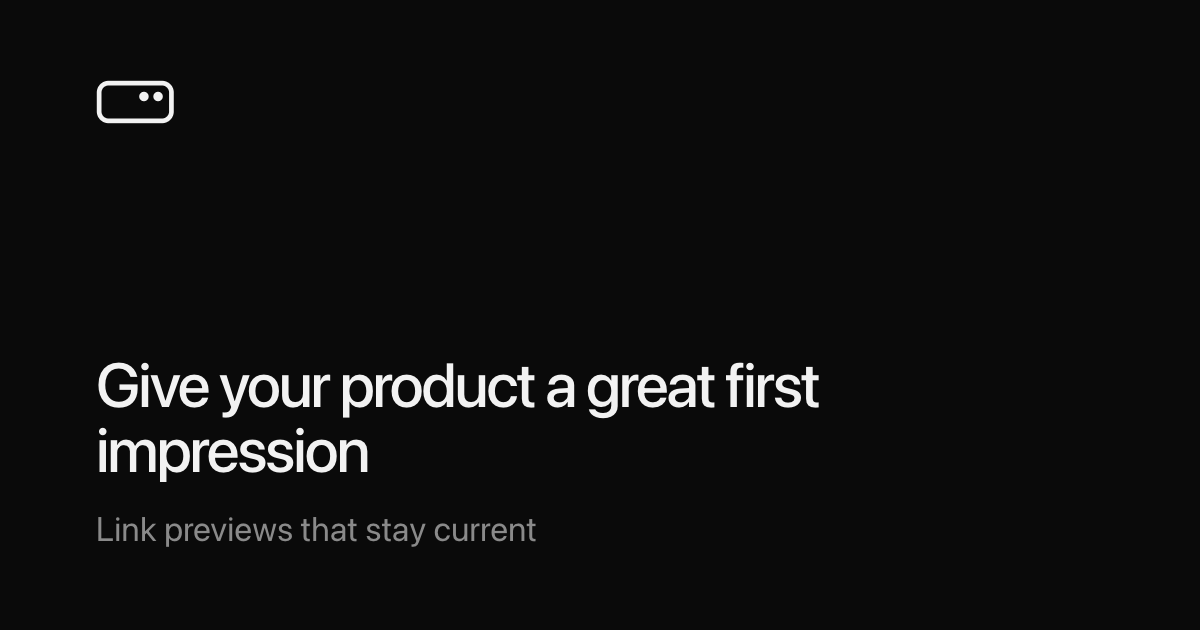
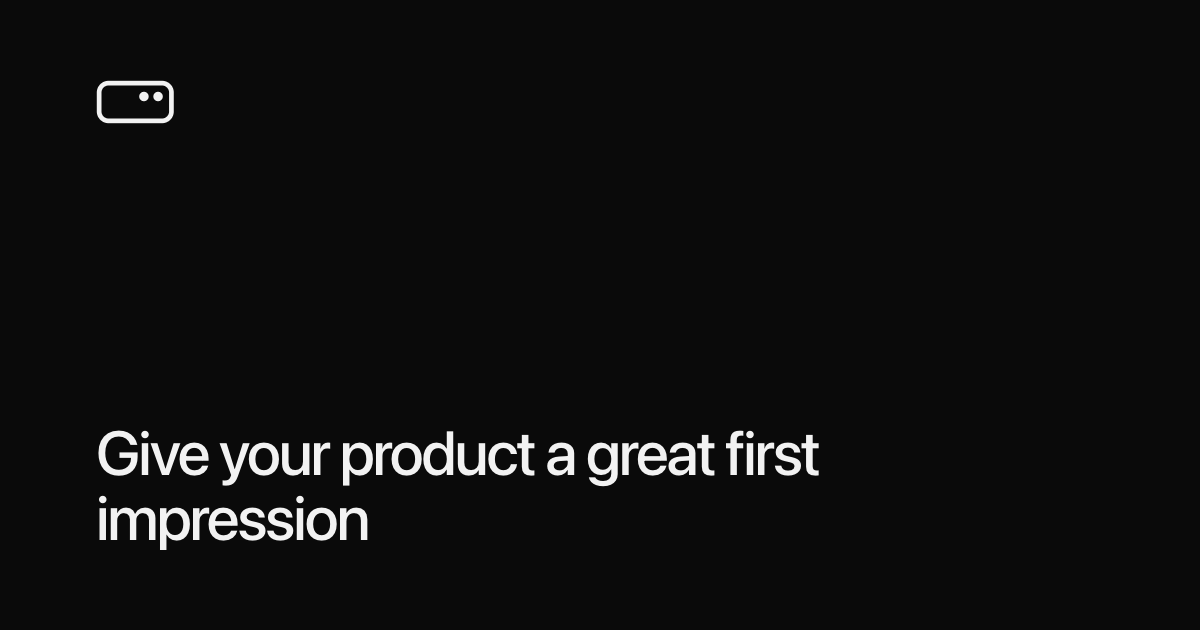
Page: full-width sections split by lines, Why as cards with live pictures, quiet load-in motion, one type scale, the thin footer word back; social image without its subtitle

Changed region(s): [[0.0617, 0.573, 0.6783, 0.8746]]

diff --git a/site/index.html b/site/index.html
@@ -23,7 +23,7 @@
 <link rel="preconnect" href="https://fonts.googleapis.com">
 <link rel="preconnect" href="https://fonts.gstatic.com" crossorigin>
 <link href="https://fonts.googleapis.com/css2?family=Inter:wght@400;500;600&family=JetBrains+Mono:wght@400;500&display=swap" rel="stylesheet">
-<script>try { const t = localStorage.getItem('theme'); if (t === 'light' || t === 'dark') document.documentElement.dataset.theme = t; } catch {}</script>
+<script>document.documentElement.classList.add('js'); try { const t = localStorage.getItem('theme'); if (t === 'light' || t === 'dark') document.documentElement.dataset.theme = t; } catch {}</script>
 <style>
   :root {
     --bg: #fafafa; --paper: #ffffff; --ink: #0a0a0a; --ink2: #444; --mute: #7a7a7a; --line: #e4e4e4; --soft: #c8c8c8;
@@ -44,13 +44,19 @@
   body { margin: 0; background: var(--bg); color: var(--ink); font: 400 17px/1.55 var(--sans); -webkit-font-smoothing: antialiased; }
   a { color: inherit; }
   button { font: inherit; color: inherit; }
+  h1, h2, h3 { text-wrap: balance; }
+  p { text-wrap: pretty; }
   .label { font: 500 12px/1 var(--mono); letter-spacing: .14em; text-transform: uppercase; color: var(--mute); }
-  .frame { max-width: 1200px; margin: 0 auto; border-left: 1px solid var(--line); border-right: 1px solid var(--line); background: var(--paper); }
+  .frame { background: var(--paper); }
+  .wrap { max-width: 1200px; width: 100%; margin-inline: auto; }
+  .alt { background: var(--bg); }
+  .split { border-top: 1px solid var(--line); flex: 1; display: flex; }
+  .split > * { flex: 1; }
   .screen { min-height: calc(100svh - var(--head)); border-bottom: 1px solid var(--line); display: flex; flex-direction: column; }
 
   /* top */
   header { position: sticky; top: 0; z-index: 5; height: var(--head); background: color-mix(in srgb, var(--bg) 86%, transparent); backdrop-filter: blur(10px); border-bottom: 1px solid var(--line); }
-  .bar { max-width: 1200px; height: 100%; margin: 0 auto; padding: 0 24px; display: flex; align-items: center; gap: 28px; }
+  .bar { max-width: 1248px; height: 100%; margin: 0 auto; padding: 0 24px; display: flex; align-items: center; gap: 28px; }
   .logo { display: flex; align-items: center; gap: 10px; text-decoration: none; font: 600 22px/1 var(--sans); letter-spacing: -.04em; }
   .logo svg { height: 18px; width: auto; }
   .logo span { color: var(--mute); }
@@ -91,7 +97,8 @@
   h1 { margin: 28px 0 0; max-width: 820px; font: 500 clamp(40px, 6.6vw, 76px)/1.04 var(--sans); letter-spacing: -.045em; }
   .lede { margin: 22px 0 0; max-width: 520px; font-size: 19px; color: var(--ink2); }
   .ctas { margin-top: 36px; display: flex; gap: 12px; justify-content: center; flex-wrap: wrap; max-width: 100%; }
-  .users { position: relative; display: flex; align-items: flex-end; justify-content: center; gap: 48px; flex-wrap: wrap; padding: 28px 24px; border-top: 1px solid var(--line); background: var(--paper); }
+  .users { position: relative; display: flex; align-items: flex-end; justify-content: center; gap: 48px; flex-wrap: wrap; padding: 28px 24px 34.5px; border-top: 1px solid var(--line); background: var(--paper); }
+  /* 6.5px more below: exploraVist's p hangs that far under the line the logos sit on */
   .logos { display: flex; align-items: flex-end; gap: 48px; }
   .users > .label { padding-bottom: 1px; }
   .logos a { display: block; }
@@ -99,19 +106,18 @@
   .logos svg.ev { height: 28px; margin-bottom: calc(-28px * 15 / 65); }
 
   /* examples */
-  .ex-head { padding: 56px 48px 40px; }
-  h2 { margin: 0; font: 500 clamp(30px, 4vw, 44px)/1.1 var(--sans); letter-spacing: -.035em; }
+  .ex-head { padding: 104px 48px 48px; }
+  h2 { margin: 0; font: 500 clamp(30px, 3.6vw, 42px)/1.1 var(--sans); letter-spacing: -.035em; }
   .ex-head { display: flex; align-items: flex-end; justify-content: space-between; gap: 32px; }
-  .ex-head h2 { font-size: clamp(30px, 3.6vw, 42px); }
   .seg { flex: none; }
   .seg { display: inline-flex; gap: 4px; padding: 4px; background: var(--code); border: 1px solid var(--line); border-radius: 999px; }
   .tab { position: relative; overflow: hidden; display: flex; align-items: center; gap: 8px; height: 40px; padding: 0 16px; border: 0; border-radius: 999px; background: transparent; color: var(--mute); cursor: pointer; font: 500 14px/1 var(--sans); }
   .tab:hover { color: var(--ink); }
   .tab svg { width: 16px; height: 16px; }
   .tab[aria-selected="true"] { background: var(--paper); color: var(--ink); box-shadow: 0 1px 2px rgba(0,0,0,.08), 0 0 0 1px var(--line); }
-  .stage { flex: 1; display: grid; grid-template-columns: 1.1fr 1fr; border-top: 1px solid var(--line); }
-  .stage > div { padding: 48px; min-width: 0; display: flex; flex-direction: column; justify-content: center; }
-  .shot { position: relative; background: var(--bg); border-right: 1px solid var(--line); overflow: hidden; }
+  .stage { display: grid; grid-template-columns: 1.1fr 1fr; }
+  .stage > div { padding: 56px 48px 104px; min-width: 0; display: flex; flex-direction: column; justify-content: center; }
+  .shot { position: relative; border-right: 1px solid var(--line); overflow: hidden; }
   .shot::before { content: ""; position: absolute; inset: 0; background-image: radial-gradient(var(--dot) 1px, transparent 1.2px); background-size: 12px 12px; opacity: .7; }
   .chat { position: relative; max-width: 460px; width: 100%; margin: 0 auto; background: var(--paper); border: 1px solid var(--line); border-radius: 28px; padding: 22px 20px 24px;
     box-shadow: 0 24px 60px -30px rgba(0,0,0,.25); }
@@ -151,74 +157,105 @@
   .addr b.flash { animation: flash .8s ease-out; }
   @keyframes flash { from { background: var(--ink); color: var(--bg); } }
   .say .label.kind { display: inline-block; padding: 8px 12px; border: 1px solid var(--line); }
-  .say h3 { margin: 0; font: 500 clamp(26px, 3vw, 36px)/1.12 var(--sans); letter-spacing: -.03em; }
+  .say h3 { margin: 0; font: 500 clamp(24px, 2.6vw, 32px)/1.15 var(--sans); letter-spacing: -.03em; max-width: 440px; }
   .say p { margin: 14px 0 0; color: var(--ink2); max-width: 440px; }
 
-  /* why */
-  .why-grid { flex: 1; display: grid; grid-template-columns: 1fr 1fr; border-top: 1px solid var(--line); }
-  .why-grid > div { padding: 40px 48px; display: flex; flex-direction: column; justify-content: center; }
-  .why-grid > div:nth-child(2n) { border-left: 1px solid var(--line); }
-  .why-grid > div:nth-child(n+3) { border-top: 1px solid var(--line); }
-  .why-grid svg { width: 22px; height: 22px; color: var(--ink); }
-  .why-grid h3 { margin: 18px 0 0; font: 500 24px/1.2 var(--sans); letter-spacing: -.025em; }
-  .why-grid p { margin: 8px 0 0; color: var(--ink2); max-width: 420px; }
+  /* why: four cards, each with a small picture of the point */
+  .why-grid { display: grid; grid-template-columns: repeat(2, 1fr); gap: 16px; padding: 0 48px 104px; }
+  .card { border: 1px solid var(--line); border-radius: 20px; background: var(--paper); overflow: hidden; display: flex; flex-direction: column; }
+  .viz { position: relative; height: 196px; background: var(--bg); border-bottom: 1px solid var(--line); display: grid; place-items: center; overflow: hidden; }
+  .viz::before { content: ""; position: absolute; inset: 0; background-image: radial-gradient(var(--dot) 1px, transparent 1.2px); background-size: 12px 12px; opacity: .6; }
+  .viz > * { position: relative; }
+  .card .txt { padding: 22px 24px 26px; }
+  .card h3 { margin: 0; font: 500 22px/1.2 var(--sans); letter-spacing: -.025em; }
+  .card p { margin: 6px 0 0; color: var(--ink2); font-size: 15.5px; line-height: 1.5; }
+  .mini { width: 210px; border-radius: 14px; overflow: hidden; border: 1px solid var(--line); background: var(--code); font-size: 11px; box-shadow: 0 12px 30px -18px rgba(0,0,0,.35); }
+  .mini .cover { font-size: 0; }
+  .mini .cap { padding: 7px 10px 8px; }
+  .mini .cap b { display: block; font-size: 11.5px; }
+  .mini .cap span { color: var(--mute); font-size: 10.5px; }
+  .vs { display: flex; gap: 14px; align-items: center; }
+  .plain { width: 150px; padding: 12px 14px; border-radius: 14px; border: 1px solid var(--line); background: var(--paper); font-size: 12px; color: var(--mute); }
+  .plain u { color: var(--ink2); }
+  .vs .arrow { color: var(--soft); font: 400 18px var(--mono); }
+  .browser { width: 250px; border: 1px solid var(--line); border-radius: 12px; background: var(--paper); overflow: hidden; box-shadow: 0 12px 30px -18px rgba(0,0,0,.35); }
+  .browser .top { display: flex; gap: 5px; padding: 8px 10px; border-bottom: 1px solid var(--line); }
+  .browser .top i { width: 7px; height: 7px; border-radius: 50%; background: var(--line); }
+  .browser .pane { padding: 12px; }
+  .browser .cover { border-radius: 8px; }
+  .scan { position: absolute; inset: 0; background: var(--card); transform-origin: right; }
+  .shown .scan { animation: scan 1.6s .3s cubic-bezier(.6,0,.2,1) forwards; }
+  @keyframes scan { to { transform: scaleX(0); } }
+  .stamp { position: absolute; right: 14px; bottom: 12px; font: 500 10.5px var(--mono); letter-spacing: .1em; text-transform: uppercase; color: var(--mute); }
+  .url { display: flex; align-items: center; gap: 10px; padding: 12px 16px; border-radius: 999px; border: 1px solid var(--line); background: var(--paper); font: 400 14px var(--mono); box-shadow: 0 12px 30px -18px rgba(0,0,0,.35); }
+  .url svg { width: 16px; height: 16px; color: var(--mute); }
+  .url .tok { color: var(--ink); }
+  .seen { margin-top: 14px; font: 500 10.5px var(--mono); letter-spacing: .1em; text-transform: uppercase; color: var(--mute); text-align: center; }
+  .brand-cycle .site { transition: opacity .4s ease; }
+
+  /* things that rise in once, when first seen */
+  /* hidden only once the script is there to show them again */
+  .js [data-rise] { opacity: 0; transform: translateY(14px); transition: opacity .8s ease, transform .8s cubic-bezier(.2,.7,.2,1); transition-delay: var(--d, 0s); }
+  .js [data-rise].shown { opacity: 1; transform: none; }
+  /* the opening rises on load, with no script */
+  .hero [data-rise] { opacity: 1; transform: none; animation: up .9s cubic-bezier(.2,.7,.2,1) both; animation-delay: var(--d, 0s); }
+  @keyframes up { from { opacity: 0; transform: translateY(14px); } }
 
   /* get started */
-  .ways { flex: 1; display: grid; grid-template-columns: 1fr 1fr; }
-  .ways > div { padding: 48px; min-width: 0; display: flex; flex-direction: column; }
+  .ways { display: grid; grid-template-columns: 1fr 1fr; }
+  .ways > div { padding: 56px 48px 104px; min-width: 0; display: flex; flex-direction: column; justify-content: center; }
   .ways > div + div { border-left: 1px solid var(--line); }
-  .ways h3 { margin: 0; font: 500 28px/1.15 var(--sans); letter-spacing: -.03em; }
-  .ways p { margin: 12px 0 0; color: var(--ink2); max-width: 440px; }
+  .ways h3 { margin: 0; font: 500 24px/1.2 var(--sans); letter-spacing: -.025em; }
+  .ways p { margin: 8px 0 0; color: var(--ink2); max-width: 440px; }
   .ways .cmd { margin-top: 28px; align-self: flex-start; font-size: 13px; }
   .code { position: relative; margin-top: 16px; background: var(--code); border: 1px solid var(--line); }
   .code pre { margin: 0; padding: 16px 56px 16px 18px; overflow-x: auto; font: 400 13px/1.7 var(--mono); }
   .code .c { color: var(--mute); }
   .code .cp { position: absolute; top: 8px; right: 8px; }
-  .more { margin-top: auto; padding-top: 28px; }
+  .more { margin-top: 28px; }
   .more a { text-decoration: none; border-bottom: 1px solid var(--soft); }
   .more a:hover { border-color: var(--ink); }
-  .ways-head, .why-head { padding: 56px 48px 40px; }
-  .ways-head { border-bottom: 1px solid var(--line); }
+  .ways-head, .why-head { padding: 104px 48px 48px; }
 
   /* footer: the word drawn in as it comes into view; the dots light up near the pointer */
-  footer { position: relative; max-width: 1200px; margin: 0 auto; height: 340px; overflow: hidden; --mx: -999px; --my: -999px; }
+  footer { position: relative; height: 340px; overflow: hidden; --mx: -999px; --my: -999px; }
   footer::before, footer::after { content: ""; position: absolute; inset: 0; pointer-events: none; background-size: 12px 12px; }
   footer::before { background-image: radial-gradient(var(--dot) 1px, transparent 1.2px);
     -webkit-mask-image: linear-gradient(to top, #000, transparent 75%); mask-image: linear-gradient(to top, #000, transparent 75%); }
   footer::after { background-image: radial-gradient(var(--ink) 1.1px, transparent 1.3px); opacity: .5;
     -webkit-mask-image: radial-gradient(160px circle at var(--mx) var(--my), #000, transparent); mask-image: radial-gradient(160px circle at var(--mx) var(--my), #000, transparent); }
-  .word { position: absolute; left: 24px; bottom: 64px; width: clamp(340px, 78vw, 940px); height: auto; overflow: visible; user-select: none; }
-  /* fill over a doubled stroke: the letters' overlapping shapes leave no seams inside */
-  .word text { font: 700 300px var(--sans); letter-spacing: -.065em; fill: var(--bg); stroke: var(--soft); stroke-width: 2.4; paint-order: stroke fill;
-    stroke-dasharray: 2600; stroke-dashoffset: 2600; transition: stroke-dashoffset 2.6s cubic-bezier(.3,.1,.2,1); }
-  footer.on .word text { stroke-dashoffset: 0; }
-  .foot { position: absolute; left: 24px; right: 24px; bottom: 28px; display: flex; gap: 28px; flex-wrap: wrap; z-index: 1; }
+  .word { position: absolute; left: max(24px, calc((100% - 1200px) / 2 + 24px)); bottom: 72px; font: 700 clamp(110px, 24vw, 300px)/.8 var(--sans); letter-spacing: -.065em;
+    color: transparent; -webkit-text-stroke: 1px var(--soft); user-select: none; opacity: 0; transform: translateY(24px); transition: opacity 1.2s ease, transform 1.2s cubic-bezier(.2,.7,.2,1); }
+  footer.on .word { opacity: 1; transform: none; }
+  .foot { position: absolute; left: max(24px, calc((100% - 1200px) / 2 + 24px)); right: max(24px, calc((100% - 1200px) / 2 + 24px)); bottom: 28px; display: flex; gap: 28px; flex-wrap: wrap; z-index: 1; }
   .foot a { text-decoration: none; }
   .foot a:hover { color: var(--ink); }
   .foot .r { margin-left: auto; }
 
-  @media (prefers-reduced-motion: reduce) { html { scroll-behavior: auto; } *, *::before, *::after { animation: none !important; transition: none !important; } .word text { stroke-dashoffset: 0; } }
+  @media (prefers-reduced-motion: reduce) { html { scroll-behavior: auto; } *, *::before, *::after { animation: none !important; transition: none !important; } .word, .js [data-rise] { opacity: 1; transform: none; } .scan { display: none; } }
   @media (max-width: 900px) {
     nav a.label { display: none; }
     .bar { padding: 0 16px; gap: 16px; }
     .hero .in { padding: 56px 16px; }
-    .ex-head, .ways-head, .why-head { padding: 40px 16px 28px; }
+    .ex-head, .ways-head, .why-head { padding: 72px 16px 32px; }
     .ex-head { flex-direction: column; align-items: flex-start; gap: 20px; }
     .seg { padding: 0; gap: 22px; background: none; border: 0; border-radius: 0; }
     .tab { height: auto; padding: 4px 0; border-radius: 0; font-size: 15px; }
     .tab svg { display: none; }
     .tab[aria-selected="true"] { background: none; box-shadow: none; text-decoration: underline; text-underline-offset: 6px; text-decoration-thickness: 1.5px; }
     .stage, .ways { grid-template-columns: 1fr; }
-    .stage > div, .ways > div { padding: 32px 16px; }
+    .stage > div, .ways > div { padding: 32px 16px 56px; }
     .shot { border-right: 0; border-bottom: 1px solid var(--line); }
     .ways > div + div { border-left: 0; border-top: 1px solid var(--line); }
     .cmd { font-size: 12.5px; }
     footer { height: 240px; }
-    .word { left: 16px; bottom: 60px; }
-    .why-grid { grid-template-columns: 1fr; }
-    .why-grid > div { padding: 32px 16px; }
-    .why-grid > div:nth-child(2n) { border-left: 0; }
-    .why-grid > div + div { border-top: 1px solid var(--line); }
+    .word { left: 16px; bottom: 64px; }
+    .why-grid { grid-template-columns: 1fr; padding: 0 16px 72px; }
+    .plain { width: 104px; padding: 10px; font-size: 11px; }
+    .vs { gap: 8px; }
+    .vs .mini { width: 156px; }
+    .browser { width: 210px; }
+    .stamp { right: 10px; bottom: 8px; }
     .foot { left: 16px; right: 16px; }
   }
 </style>
@@ -251,12 +288,12 @@
 </div></header>
 
 <main class="frame">
-  <section class="screen hero" id="top">
+  <section class="screen hero alt" id="top">
     <div class="in">
       <div class="pill label">Open source · MCP</div>
-      <h1>Give your product a great first impression</h1>
-      <p class="lede">Link previews that stay current.</p>
-      <div class="ctas">
+      <h1 data-rise>Give your product a great first impression</h1>
+      <p class="lede" data-rise style="--d:.12s">Link previews that stay current.</p>
+      <div class="ctas" data-rise style="--d:.24s">
         <div class="cmd"><svg><use href="#i-box"/></svg><code>npm i liveog</code><button class="cp" aria-label="Copy"><svg class="copy"><use href="#i-copy"/></svg><svg class="ok"><use href="#i-ok"/></svg></button></div>
         <div class="cmd glow"><svg><use href="#i-term"/></svg><code>npx liveog mcp add</code><button class="cp" aria-label="Copy"><svg class="copy"><use href="#i-copy"/></svg><svg class="ok"><use href="#i-ok"/></svg></button></div>
       </div>
@@ -265,10 +302,10 @@
   </section>
 
   <section class="screen" id="examples">
-    <div class="ex-head"><h2>Links that look alive get shared</h2><div class="seg" role="tablist" id="tabs"></div></div>
-    <div class="stage">
+    <div class="ex-head wrap"><h2>Links that look alive get shared</h2><div class="seg" role="tablist" id="tabs"></div></div>
+    <div class="split"><div class="stage wrap">
       <div class="shot">
-        <div class="chat">
+        <div class="chat" data-rise>
           <div class="row">
             <div class="av" id="av"></div>
             <div class="bubbles">
@@ -286,22 +323,38 @@
         <h3 id="why"></h3>
         <p id="whyp"></p>
       </div>
-    </div>
+    </div></div>
   </section>
 
-  <section class="screen" id="why">
-    <div class="why-head"><h2>Why liveog</h2></div>
-    <div class="why-grid">
-      <div><svg><use href="#i-invite"/></svg><h3>More people tap</h3><p>A preview that shows what is happening now gets opened, and shared again.</p></div>
-      <div><svg><use href="#i-home"/></svg><h3>Your brand on every link</h3><p>Your logo, colours and type, on every link anyone sends.</p></div>
-      <div><svg><use href="#i-box"/></svg><h3>Drawn in the browser</h3><p>Covers are drawn by a browser that is already open. No image server to run or pay for.</p></div>
-      <div><svg><use href="#i-bid"/></svg><h3>Private where it counts</h3><p>Invite codes and share links never show in a preview, a search or a cache.</p></div>
+  <section class="screen alt" id="why">
+    <div class="why-head wrap"><h2>Why liveog</h2></div>
+    <div class="why-grid wrap">
+      <div class="card" data-rise>
+        <div class="viz"><div class="vs">
+          <div class="plain">yoursite.com/i/…<br><u>yoursite.com</u></div>
+          <span class="arrow">→</span>
+          <div class="mini"><div class="cover"><div class="site">Logo</div><div class="t">Dinner at Lucia's</div><div class="l"><strong>5 going</strong></div></div><div class="cap"><b>Dinner at Lucia's</b><span>yoursite.com</span></div></div>
+        </div></div>
+        <div class="txt"><h3>More people tap</h3><p>A link that shows what is happening gets opened, and shared again.</p></div>
+      </div>
+      <div class="card" data-rise style="--d:.08s">
+        <div class="viz"><div class="mini brand-cycle"><div class="cover" id="brandcover"></div><div class="cap"><b id="brandname"></b><span>yoursite.com</span></div></div></div>
+        <div class="txt"><h3>Your brand on every link</h3><p>Your logo, colours and type, on every link anyone sends.</p></div>
+      </div>
+      <div class="card" data-rise style="--d:.16s">
+        <div class="viz"><div class="browser"><div class="top"><i></i><i></i><i></i></div><div class="pane"><div class="cover" style="position:relative"><div class="site">Logo</div><div class="t">Ruby's surgery</div><div class="l"><strong>$4,600</strong> of $5,000</div><div class="scan"></div></div></div></div><span class="stamp">0 image servers</span></div>
+        <div class="txt"><h3>Drawn in the browser</h3><p>A browser that is already open draws each cover. Nothing to run or pay for.</p></div>
+      </div>
+      <div class="card" data-rise style="--d:.24s">
+        <div class="viz"><div><div class="url"><svg viewBox="0 0 24 24" fill="none" stroke="currentColor" stroke-width="1.75" stroke-linecap="round" stroke-linejoin="round"><rect width="18" height="11" x="3" y="11" rx="2" ry="2"/><path d="M7 11V7a5 5 0 0 1 10 0v4"/></svg><span>yoursite.com/i/<span class="tok" id="tok">x7Kq2mR9vT</span></span></div><div class="seen">Never in a preview, search or cache</div></div></div>
+        <div class="txt"><h3>Private where it counts</h3><p>Invite codes and share links stay out of every preview.</p></div>
+      </div>
     </div>
   </section>
 
   <section class="screen" id="start">
-    <div class="ways-head"><h2>Get started</h2></div>
-    <div class="ways">
+    <div class="ways-head wrap"><h2>Get started</h2></div>
+    <div class="split"><div class="ways wrap">
       <div>
         <h3>Install it yourself</h3>
         <p>Node, Deno, Bun, Cloudflare, Vercel.</p>
@@ -316,16 +369,16 @@ res.end(site.page(html, path, originOf(host)));</pre><button class="cp" aria-lab
         <h3>Or let your agent do it</h3>
         <p>Adds liveog to Claude Code, Cursor, Codex, VS Code and Windsurf.</p>
         <div class="cmd glow"><svg><use href="#i-term"/></svg><code>npx liveog mcp add</code><button class="cp" aria-label="Copy"><svg class="copy"><use href="#i-copy"/></svg><svg class="ok"><use href="#i-ok"/></svg></button></div>
-        <div class="code"><pre><span class="c">then ask your agent</span>
-Set up link previews for this project.</pre><button class="cp" aria-label="Copy"><svg class="copy"><use href="#i-copy"/></svg><svg class="ok"><use href="#i-ok"/></svg></button></div>
+        <div class="code"><pre><span class="c">then ask your agent to</span>
+set up link previews for this project</pre><button class="cp" data-copy="Set up link previews for this project." aria-label="Copy"><svg class="copy"><use href="#i-copy"/></svg><svg class="ok"><use href="#i-ok"/></svg></button></div>
         <div class="more"><a class="label" href="https://github.com/bilal-abraham/liveog#with-your-agent">Any other MCP client →</a></div>
       </div>
-    </div>
+    </div></div>
   </section>
 </main>
 
-<footer id="foot">
-  <svg class="word" id="word" viewBox="0 0 960 250" aria-hidden="true"><text x="4" y="225">liveog</text></svg>
+<footer id="foot" class="alt">
+  <div class="word" aria-hidden="true">liveog</div>
   <div class="foot">
     <a class="label" href="https://github.com/bilal-abraham/liveog">GitHub</a>
     <a class="label" href="https://www.npmjs.com/package/liveog">npm</a>
@@ -439,9 +492,39 @@ Set up link previews for this project.</pre><button class="cp" aria-label="Copy"
   }
   pick(0);
 
-  // --- footer: the word fitted to its own shape, drawn in once it is seen; dots follow the pointer ---
-  const foot = $('foot'), word = $('word');
-  document.fonts.ready.then(() => { const b = word.querySelector('text').getBBox(); word.setAttribute('viewBox', `${b.x - 4} ${b.y - 4} ${b.width + 8} ${b.height + 8}`); });
+  // --- things rise in once, the first time they are seen -------------------------------------------
+  const rising = [...document.querySelectorAll('[data-rise]')].filter((el) => !el.closest('.hero'));
+  const show = (el) => el.classList.add('shown');
+  const rise = new IntersectionObserver((es) => { for (const e of es) if (e.isIntersecting) { show(e.target); rise.unobserve(e.target); } }, { threshold: .15 });
+  for (const el of rising) rise.observe(el);
+  // a second way to see them, so nothing can stay hidden
+  let ticking = false;
+  const check = () => { ticking = false; for (const el of rising) if (el.getBoundingClientRect().top < innerHeight * .92) show(el); };
+  addEventListener('scroll', () => { if (!ticking) { ticking = true; requestAnimationFrame(check); } }, { passive: true });
+  addEventListener('load', check); check();
+
+  // --- why: one cover, three brands; a secret that turns to dots ------------------------------------
+  const BRANDS = [
+    ['Northgate Homes', '<path d="M5.5 10 10 6l4.5 4v4.5h-9z" fill="var(--card)"/>', '14 Maple Street', '$699,000 · 3 bd'],
+    ['Supper', '<circle cx="10" cy="10" r="4" fill="var(--card)"/>', "Dinner at Lucia's", '4 going'],
+    ['Fieldnote', '<path d="M6 6h8v2H6zM6 10h8v2H6zM6 14h5v2H6z" fill="var(--card)"/>', 'Q4 planning notes', 'Updated just now'],
+  ];
+  let bi = 0;
+  const brand = () => {
+    const [n, m, t, l] = BRANDS[bi++ % BRANDS.length];
+    $('brandcover').innerHTML = `<div class="site"><svg viewBox="0 0 20 20"><rect x="1" y="1" width="18" height="18" rx="5" fill="currentColor"/>${m}</svg>${n}</div><div class="t">${t}</div><div class="l"><strong>${l}</strong></div>`;
+    $('brandname').textContent = t;
+  };
+  brand(); setInterval(brand, 2600);
+  const tok = $('tok'), secret = tok.textContent;
+  new IntersectionObserver((es, io) => {
+    if (!es.some((e) => e.isIntersecting)) return;
+    io.disconnect();
+    [...secret].forEach((_, i) => setTimeout(() => { tok.textContent = '•'.repeat(i + 1) + secret.slice(i + 1); }, 700 + i * 70));
+  }, { threshold: .6 }).observe(tok);
+
+  // --- footer: the word rises in once it is seen; dots follow the pointer ---
+  const foot = $('foot');
   new IntersectionObserver((es, io) => { if (es.some((e) => e.isIntersecting)) { foot.classList.add('on'); io.disconnect(); } }, { threshold: .3 }).observe(foot);
   foot.addEventListener('pointermove', (e) => { const r = foot.getBoundingClientRect(); foot.style.setProperty('--mx', `${e.clientX - r.left}px`); foot.style.setProperty('--my', `${e.clientY - r.top}px`); });
   foot.addEventListener('pointerleave', () => { foot.style.setProperty('--mx', '-999px'); foot.style.setProperty('--my', '-999px'); });
